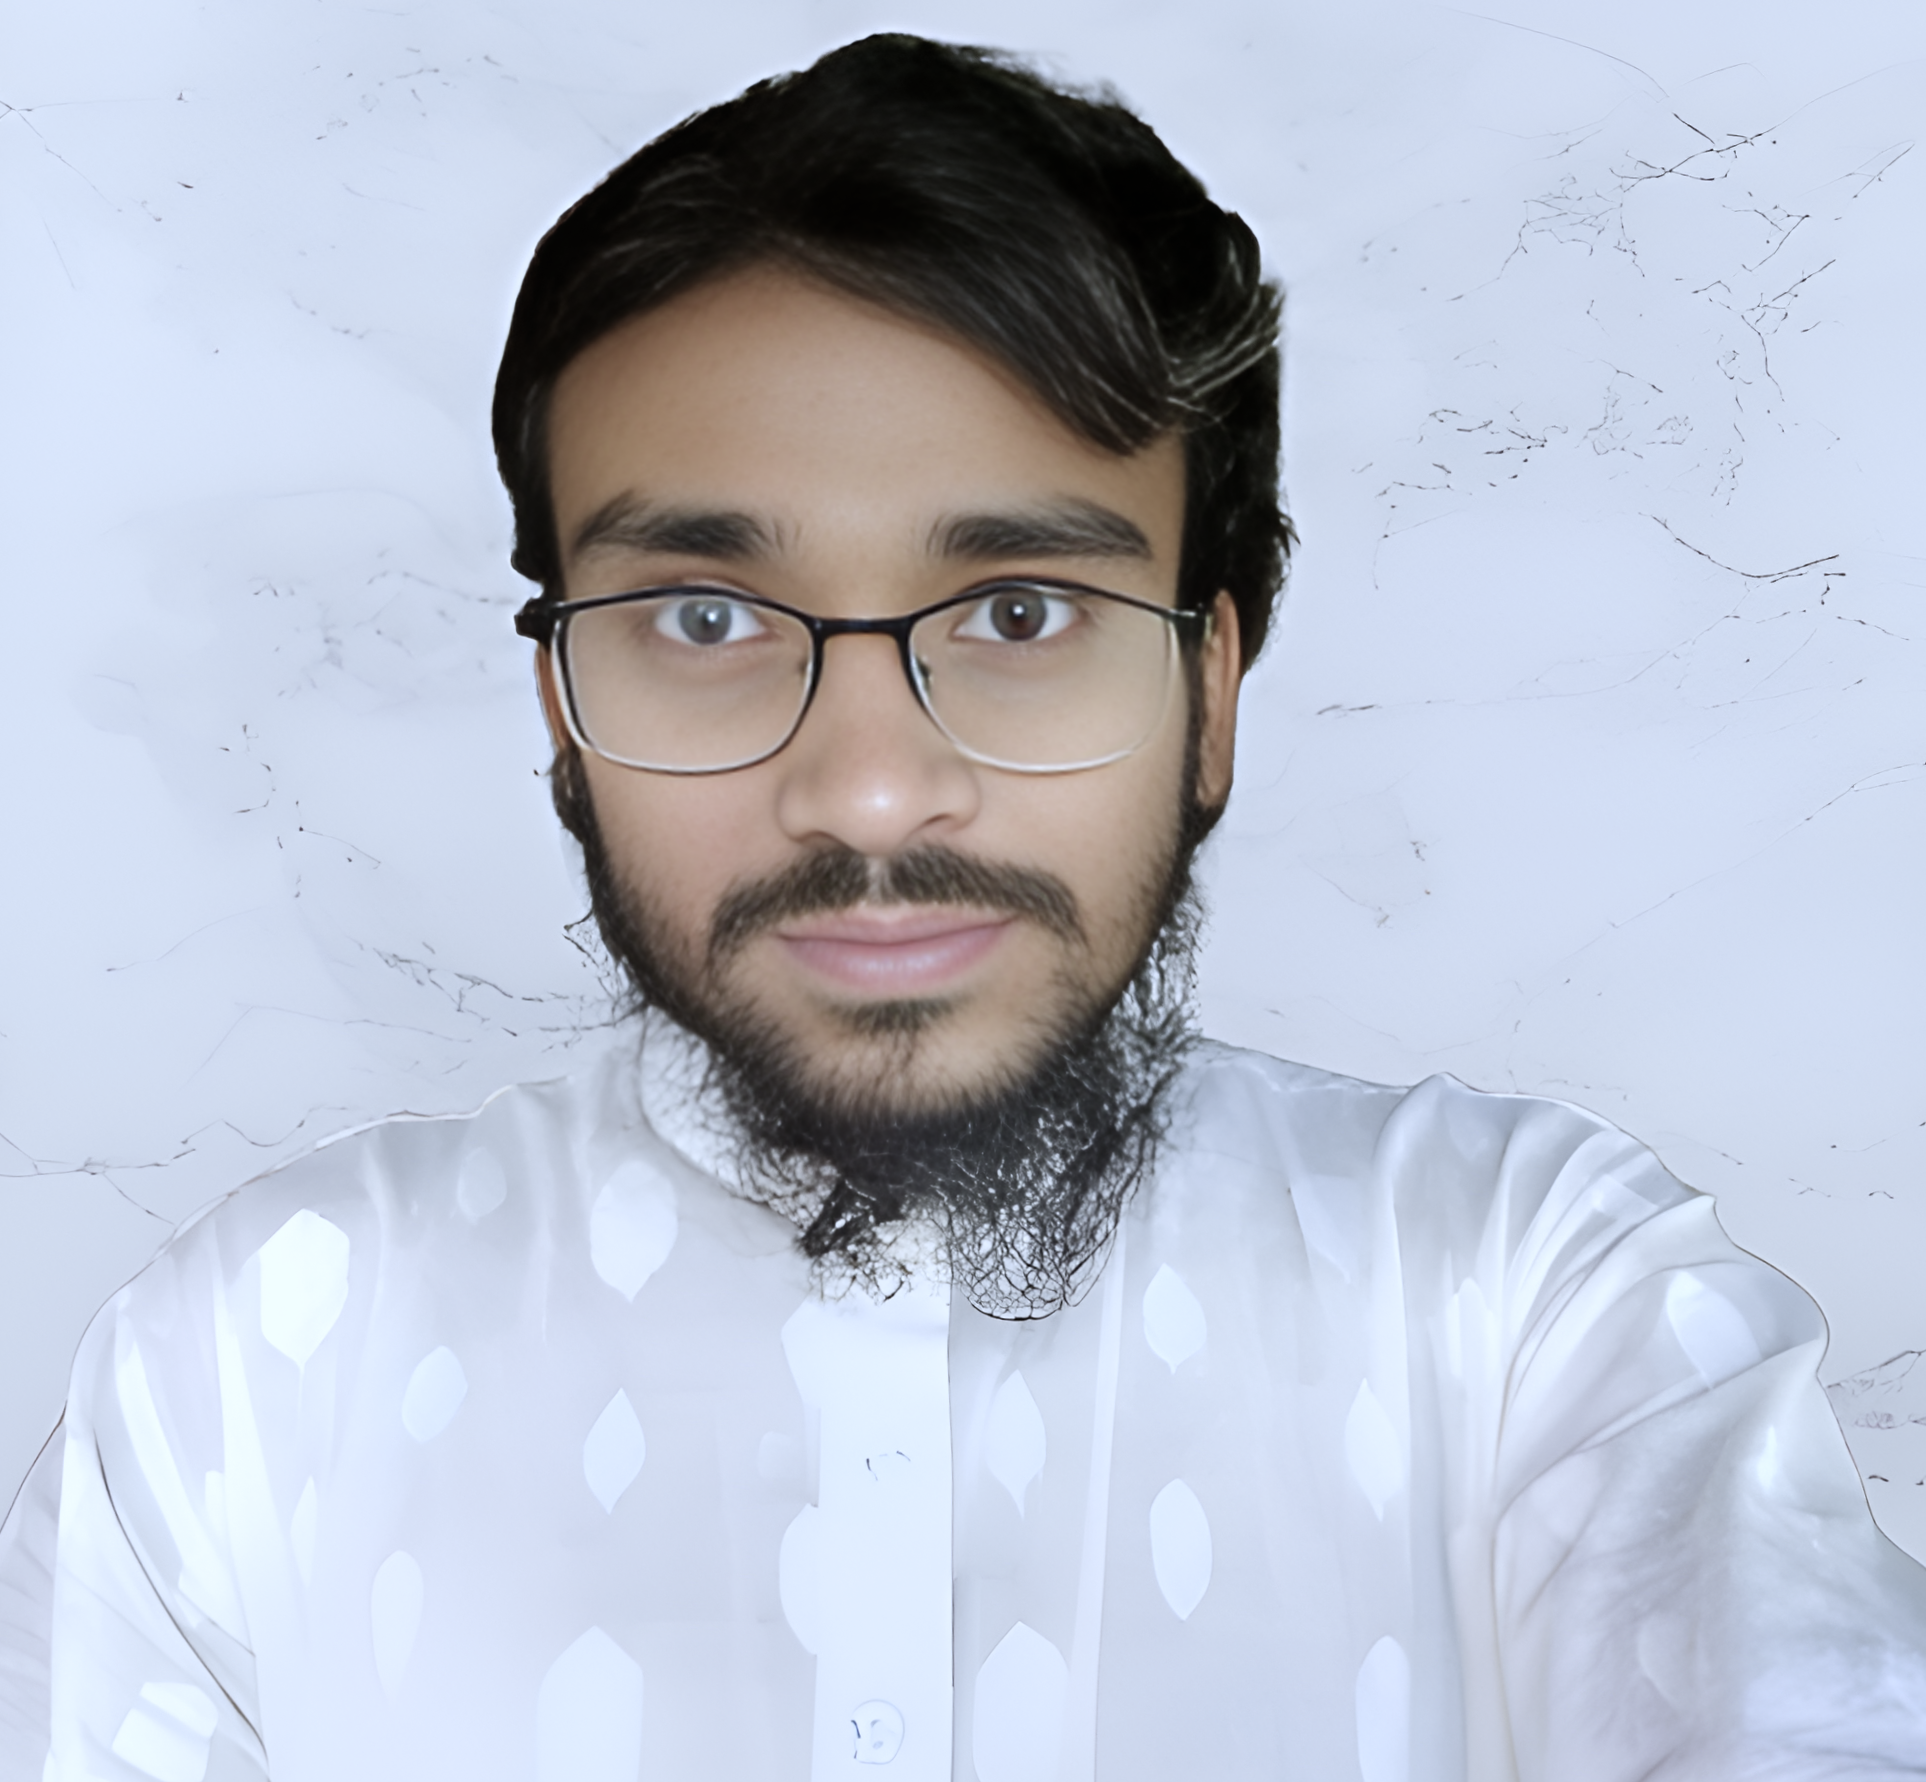
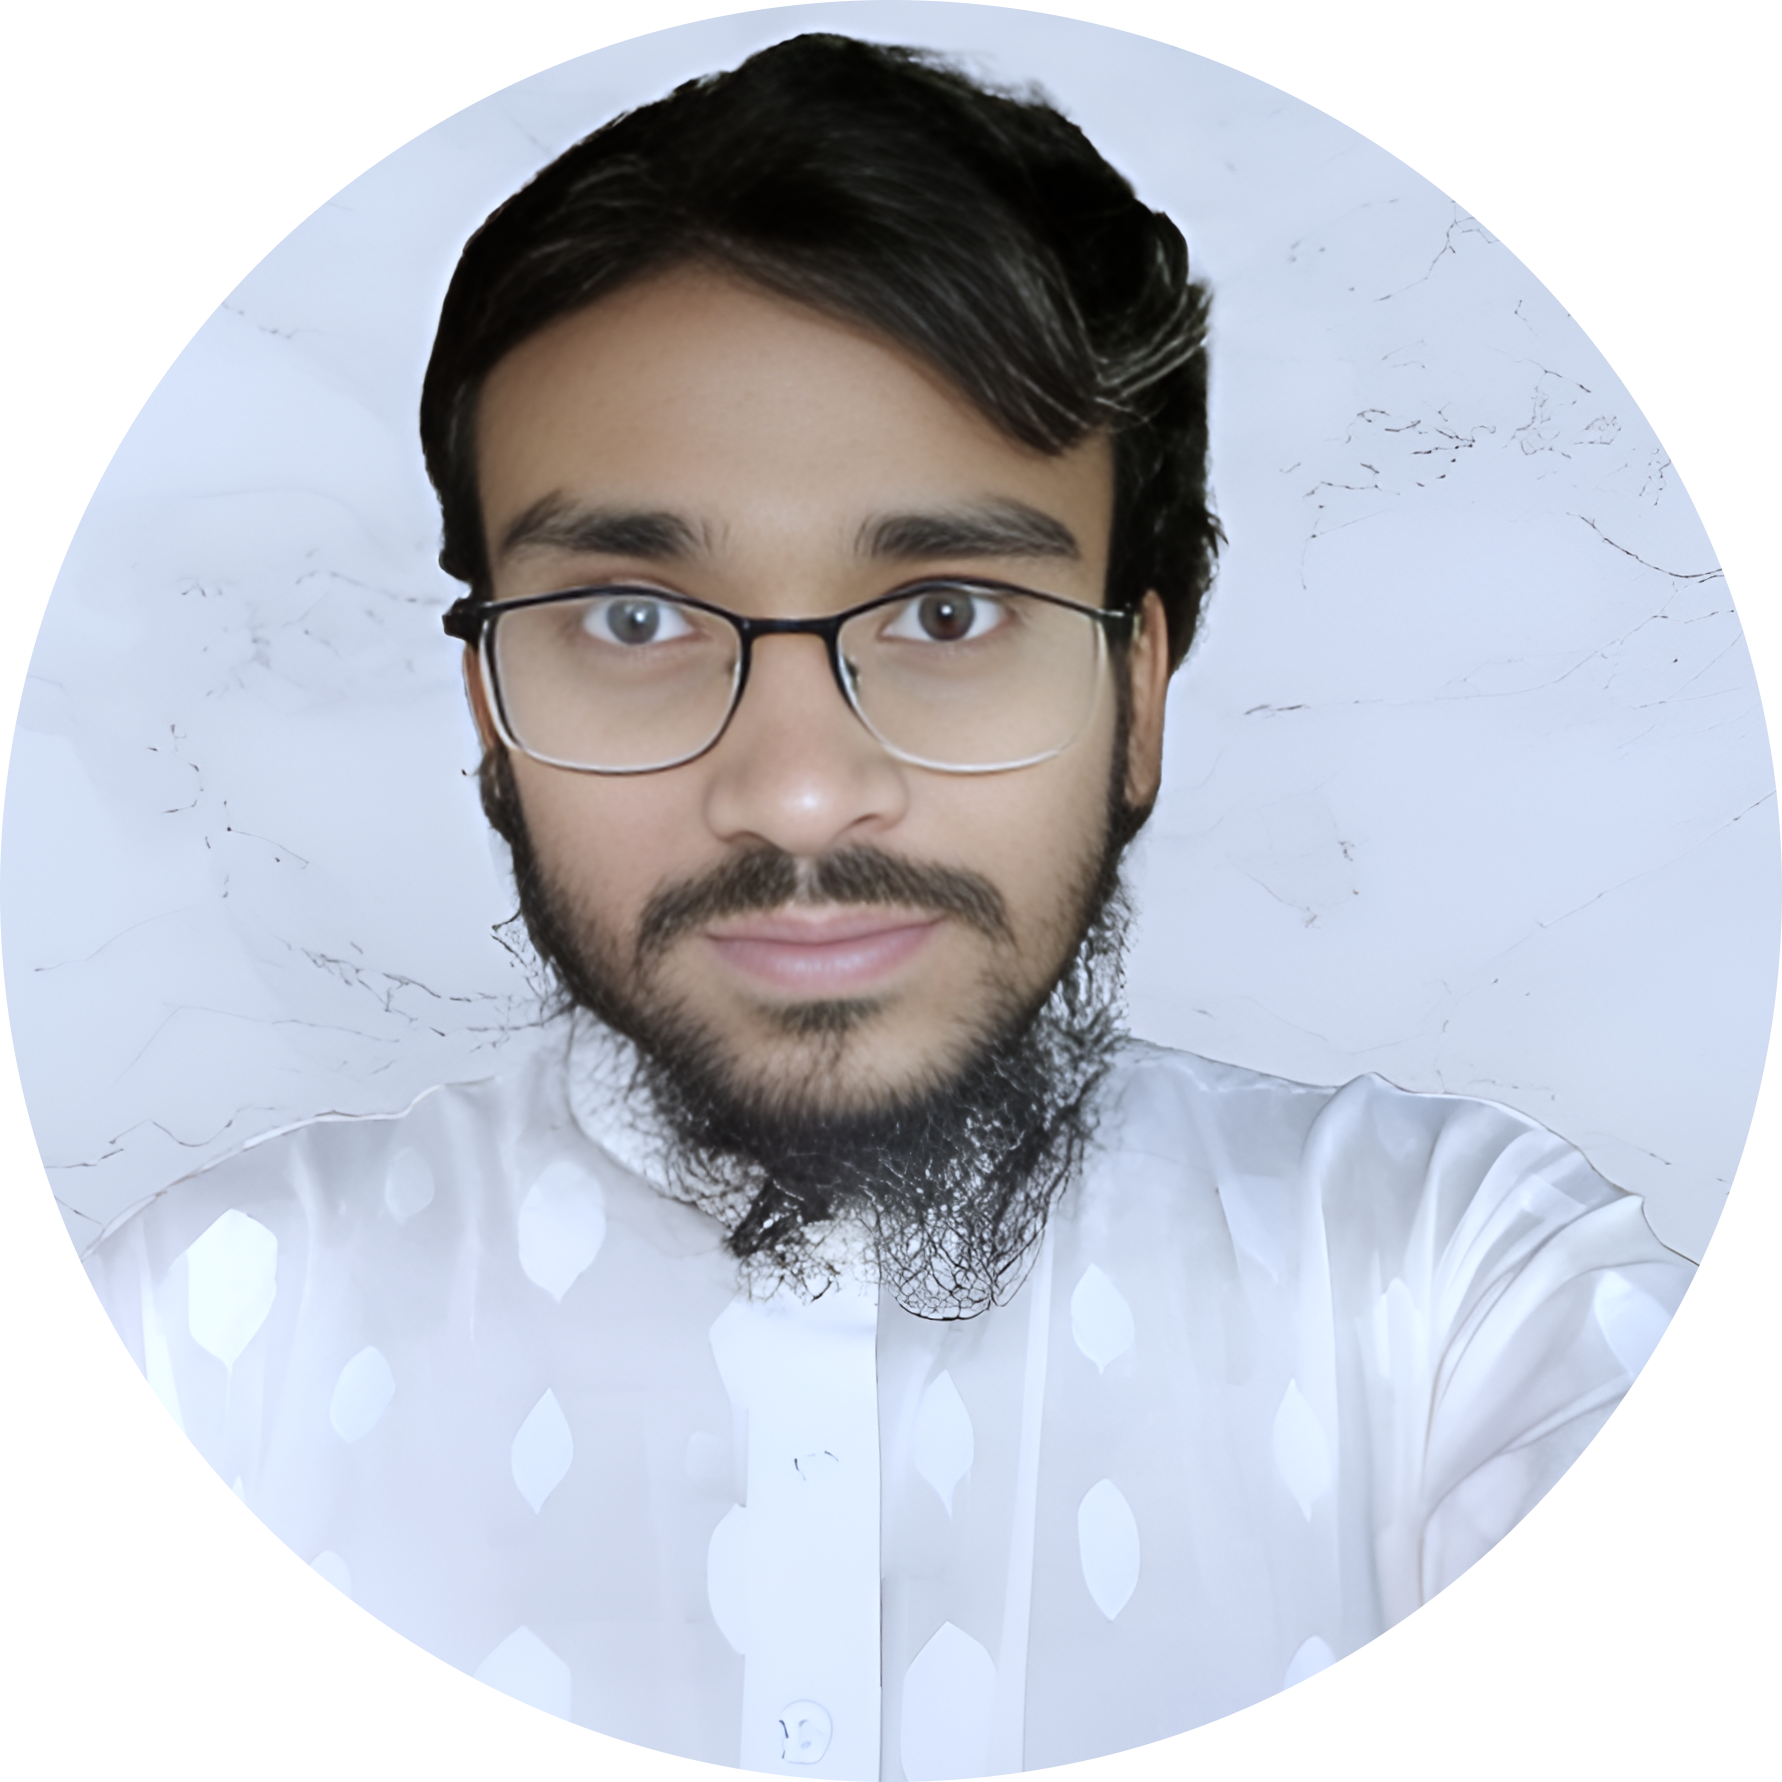
updated design

diff --git a/app/page.tsx b/app/page.tsx
@@ -35,22 +35,22 @@ const applications: {
     link: "",
 
     description:
-      "A fully functional e-commerce website built with the MERN stack (MongoDB, Express.js, React.js, Node.js). It includes product management, shopping cart, user authentication, order tracking, and secure payment integration. Designed with a modern UI and responsive layout for seamless user experience across all devices.",
+      "I developed a Quran mobile application using React Native. The app provides a clean and user-friendly interface to read the Holy Quran, with smooth navigation and organized surah and ayah structure. It is designed to ensure a comfortable reading experience on mobile devices.",
   },
   {
     id: 2,
-    title: "Coffee Shop application design",
-    image: "/coffee-image-home-page.jpg",
+    title: "Coffee Shop",
+    image: "/coffee-image.jpg",
     link: "",
 
     description:
-      "A fully functional e-commerce website built with the MERN stack (MongoDB, Express.js, React.js, Node.js). It includes product management, shopping cart, user authentication, order tracking, and secure payment integration. Designed with a modern UI and responsive layout for seamless user experience across all devices.",
+      "I designed a coffee shop eCommerce mobile application with a modern and visually appealing interface. The app focuses on a clean layout, attractive product presentation, and smooth user experience, allowing users to easily explore coffee items, view details, and navigate seamlessly across the app.",
   },
 ];
 const websites = [
   {
     id: 1,
-    img: "/first-e-commerce-website.jpg",
+    image: "/first-e-commerce-website.jpg",
     link: "https://mahmud-practice-shop.netlify.app",
     title: "Full Stack E-commerce website",
     description:
@@ -58,7 +58,7 @@ const websites = [
   },
   {
     id: 2,
-    img: "/blog Next js .png",
+    image: "/blog Next js .png",
     link: "https://quran-sunnah-phi.vercel.app",
     title: "Full Stack Blog website",
     description:
@@ -66,7 +66,7 @@ const websites = [
   },
   {
     id: 3,
-    img: "/marriage Next js .png",
+    image: "/marriage Next js .png",
     link: "https://test-demo-gamma.vercel.app",
     title: "Home Page Development",
     description:
@@ -74,7 +74,7 @@ const websites = [
   },
   {
     id: 4,
-    img: "/first-demo.jpg",
+    image: "/first-demo.jpg",
     link: "",
     title: "Test Demo Template ",
     description:
@@ -155,7 +155,7 @@ const Home = () => {
   const [showDetails, setShowDetails] = useState<{
     id: number;
     title: string;
-    img: string;
+    image: string;
     link: string;
     description: string;
   }>();
@@ -735,7 +735,7 @@ const Home = () => {
       }
        transition-all duration-500`}
     >
-      <header className="flex justify-between  backdrop-blur-lg items-center py-3 px-10 md:px-20 fixed top-0 z-50 bg-blue-50/70 text-black duration-500 dark:bg-gray-800/70 shadow w-full dark:border-b border-yellow-300/20">
+      <header className="flex justify-between  backdrop-blur-lg items-center py-3 md:py-5 px-10 md:px-20 fixed top-0 z-50 bg-blue-50/70 text-black duration-500 dark:bg-gray-800/70 shadow w-full dark:border-b border-yellow-300/20">
         <div className="flex">
           <button onClick={() => setShowNav(!showNav)}>
             <CgMenuHotdog className="cursor-pointer text-2xl md:hidden text-yellow-300 hover:scale-110 hover:text-yellow-400 duration-300" />
@@ -1128,9 +1128,9 @@ const Home = () => {
                 : "translate-x-[100%] opacity-0"
             }`}
           >
-            <div className={`relative h-70 w-85 imageAnimate `}>
+                    <div className={`relative h-50 w-65 md:h-70 lg:w-80  imageAnimate`}>
               <Image
-                src={"/Node-Js (1).png"}
+                src={"/website image.png"}
                 fill
                 alt="website image"
                 priority
@@ -1160,7 +1160,7 @@ const Home = () => {
                 : "-translate-x-[100%] opacity-0"
             }`}
           >
-            <div className={`relative h-50 w-65 md:h-70 lg:w-85  imageAnimate`}>
+            <div className={`relative h-50 w-65 md:h-70 lg:w-80  imageAnimate`}>
               <Image
                 src={"/Nodejs-Application.png"}
                 fill
@@ -1620,7 +1620,7 @@ const Home = () => {
             >
               <span className="font-semibold pb-5 relative  mx-auto animateText">
                 <span
-                  className={`absolute -top-2 -left-9 w-full service_icons_1`}
+                  className={`absolute -top-2 -left-9 w-full service_icons_2`}
                 >
                   <GoDotFill className={`size-10 text-green-500`} />
                 </span>
@@ -1643,7 +1643,7 @@ const Home = () => {
             >
               <span className="font-semibold pb-5 relative  mx-auto animateText">
                 <span
-                  className={`absolute -top-2 -left-10 w-full service_icons_1`}
+                  className={`absolute -top-2 -left-10 w-full service_icons_3`}
                 >
                   <GoDotFill className={`size-10 text-green-500`} />
                 </span>
@@ -1666,7 +1666,7 @@ const Home = () => {
             >
               <span className="font-semibold pb-5 relative  mx-auto animateText">
                 <span
-                  className={`absolute -top-2 -left-10 w-full service_icons_1`}
+                  className={`absolute -top-2 -left-10 w-full service_icons_4`}
                 >
                   <GoDotFill className={`size-10 text-green-500`} />
                 </span>
@@ -1712,7 +1712,7 @@ const Home = () => {
             >
               <span className="font-semibold pb-5 relative  mx-auto animateText">
                 <span
-                  className={`absolute -top-2 -left-10 w-full service_icons_1`}
+                  className={`absolute -top-2 -left-10 w-full service_icons_2`}
                 >
                   <GoDotFill className={`size-10 text-green-500`} />
                 </span>
@@ -1735,7 +1735,7 @@ const Home = () => {
             >
               <span className="font-semibold pb-5 relative  mx-auto animateText">
                 <span
-                  className={`absolute -top-2 -left-10 w-full service_icons_1`}
+                  className={`absolute -top-2 -left-10 w-full service_icons_3`}
                 >
                   <GoDotFill className={`size-10 text-green-500`} />
                 </span>
@@ -1758,7 +1758,7 @@ const Home = () => {
             >
               <span className="font-semibold pb-5 relative  mx-auto animateText">
                 <span
-                  className={`absolute -top-2 -left-10 w-full service_icons_1`}
+                  className={`absolute -top-2 -left-10 w-full service_icons_4`}
                 >
                   <GoDotFill className={`size-10 text-green-500`} />
                 </span>
@@ -1804,7 +1804,7 @@ const Home = () => {
             >
               <span className="font-semibold pb-5 relative  mx-auto animateText">
                 <span
-                  className={`absolute -top-2 -left-10 w-full service_icons_1`}
+                  className={`absolute -top-2 -left-10 w-full service_icons_2`}
                 >
                   <GoDotFill className={`size-10 text-green-500`} />
                 </span>
@@ -1827,7 +1827,7 @@ const Home = () => {
             >
               <span className="font-semibold pb-5 relative  mx-auto animateText">
                 <span
-                  className={`absolute -top-2 -left-10 w-full service_icons_1`}
+                  className={`absolute -top-2 -left-10 w-full service_icons_3`}
                 >
                   <GoDotFill className={`size-10 text-green-500`} />
                 </span>
@@ -1855,10 +1855,10 @@ const Home = () => {
             return (
               <div key={app?.id} className="flex">
                 <div className="flex flex-col">
-                  <div className="w-50 h-105  rounded-2xl appCardBorder duration-300 relative appCardShadow bg-white">
-                    <span className="absolute top-1 left-[50%] -translate-x-[50%] bg-black rounded-full w-2 h-2" />
-                    <span className="absolute top-20 -right-[8px] bg-[#101010]   w-1 h-13 rounded-xs" />
-                    <span className="absolute top-40 -right-[8px] bg-[#101010] w-1 h-7 rounded-xs" />
+                  <div className="w-50 h-105  rounded-[13px] appCardBorder duration-300 relative appCardShadow bg-white">
+                    <span className="absolute top-1 left-[50%] -translate-x-[50%] bg-black rounded-full w-2 h-2 z-30"/>
+                    <span className="absolute top-20 -right-[6px] bg-[#101010]   w-1 h-13 rounded-xs" />
+                    <span className="absolute top-40 -right-[6px] bg-[#101010] w-1 h-7 rounded-xs" />
                     <div className="relative h-full w-full">
                       <Image
                         src={app?.image}
@@ -1870,23 +1870,23 @@ const Home = () => {
                   </div>
                   <div className="py-5">
                     <h1 className="text-sm text-center">
-                      {"Coffee shop application"}
+                      {app?.title}
                     </h1>
                     <div
                       className="border border-zinc-300  dark:border-white/30 text-xs py-2 bg-blue-100/50 text-green-100 w-full text-center rounded-full cursor-pointer duration-300 whiteShadow my-3 hover:bg-blue-100/80 hover:text-black"
-                      // onClick={() => {
-                      //   setShowDetails(port);
-                      //   setDetailsOpen(true);
-                      // }}
+                      onClick={() => {
+                        setShowDetails(app);
+                        setDetailsOpen(true);
+                      }}
                     >
-                      View Application
+                      Application details
                     </div>
                     <div
                       className="border border-zinc-300  dark:border-white/30 text-xs py-2 bg-blue-100/50 text-green-100 w-full text-center rounded-full cursor-pointer duration-300 whiteShadow mb-3 hover:bg-blue-100/80 hover:text-black"
-                      // onClick={() => {
-                      //   setShowDetails(port);
-                      //   setDetailsOpen(true);
-                      // }}
+                      onClick={() => {
+                        setShowDetails(app);
+                        setDetailsOpen(true);
+                      }}
                     >
                       Download Application
                     </div>
@@ -1911,7 +1911,7 @@ const Home = () => {
               >
                 <div className="relative w-full h-70 portfolioBox rounded-t-md overflow-y-auto">
                   <Image
-                    src={website.img}
+                    src={website?.image}
                     priority
                     height={0}
                     width={280}
@@ -2252,7 +2252,7 @@ const Home = () => {
           </div>
           <div className="relative w-full">
             <Image
-              src={showDetails.img}
+              src={showDetails.image}
               width={200}
               height={0}
               style={{ width: "100%", height: "auto" }}

diff --git a/app/layout.tsx b/app/layout.tsx
@@ -1,5 +1,3 @@
-
-
 import type { Metadata } from "next";
 import { Geist, Geist_Mono } from "next/font/google";
 import "./globals.css";
@@ -15,7 +13,7 @@ const geistMono = Geist_Mono({
 });
 const myUrl = "https://mahmud-hasan-seven.vercel.app";
 export const metadata: Metadata = {
-  title: "Md Mahmud Hasan | Web and Mobile App Developer",
+  title: "Md Mahmud Hasan | Web and Mobile App Developer Ethical hacker",
   description:
     "I'm a passionate Full Stack Web and Mobile App Developer building modern, responsive, and high-performance applications using React, Next.js, and React Native.",
   keywords: [
@@ -30,6 +28,7 @@ export const metadata: Metadata = {
     "developer mahmud",
     "mobile app developer",
     "mobile application developer",
+    "Ethical hacker",
   ],
   authors: [{ name: "Md Mahmud Hasan" }],
 
@@ -41,10 +40,10 @@ export const metadata: Metadata = {
     siteName: "Md Mahmud Hasan Portfolio",
     images: [
       {
-        url: "/Nodejs-Application.png",
+        url: "/mahmud-hasan.png",
         width: 1200,
         height: 630,
-        alt: "Md Mahmud Hasan Portfolio Preview",
+        alt: "Md Mahmud Hasan",
       },
     ],
     locale: "en_US",
@@ -56,16 +55,16 @@ export const metadata: Metadata = {
     title: "Md Mahmud Hasan | Web Engineer",
     description:
       "Building modern, scalable web applications using React, Next.js, and MongoDB.",
-    images: ["/Nodejs-Application.png"],
+    images: ["/mahmud-hasan.png"],
   },
   metadataBase: new URL(myUrl),
   other: {
     "google-site-verification": "SpySfPuBYpu0p3WV0J0E-6Nzz71izC5yn7n-idWs1BE",
   },
   icons: {
-    icon: "/author-google.png",
-    shortcut: "/author-google.png",
-    apple: "/author-google.png",
+    icon: "/mahmud-hasan.png",
+    shortcut: "/mahmud-hasan.png",
+    apple: "/mahmud-hasan.png",
   },
 };
 

diff --git a/app/globals.css b/app/globals.css
@@ -110,24 +110,24 @@ html {
   box-shadow: 0px 0px 20px 5px rgba(156, 156, 156, 0.236);
 } */
 .appCardShadow {
-  box-shadow: 0px 0px 15px 5px #9b9b9b82;
+  box-shadow: 0px 0px 10px 10px #72727238;
 }
 
 .appCardBorder {
-  border: 7px #101010 solid;
+  border: 5px #101010 solid;
 }
 .appCardBorder:hover {
-  border: 7px red solid;
+  border: 5px red solid;
   transition: all;
   animation: appCardBorderHover 3s linear infinite;
 }
 
 @keyframes appCardBorderHover {
   0% {
-    border: 7px red solid;
+    border: 5px red solid;
   }
   50% {
-    border: 7px blue solid;
+    border: 5px blue solid;
   }
 }
 
